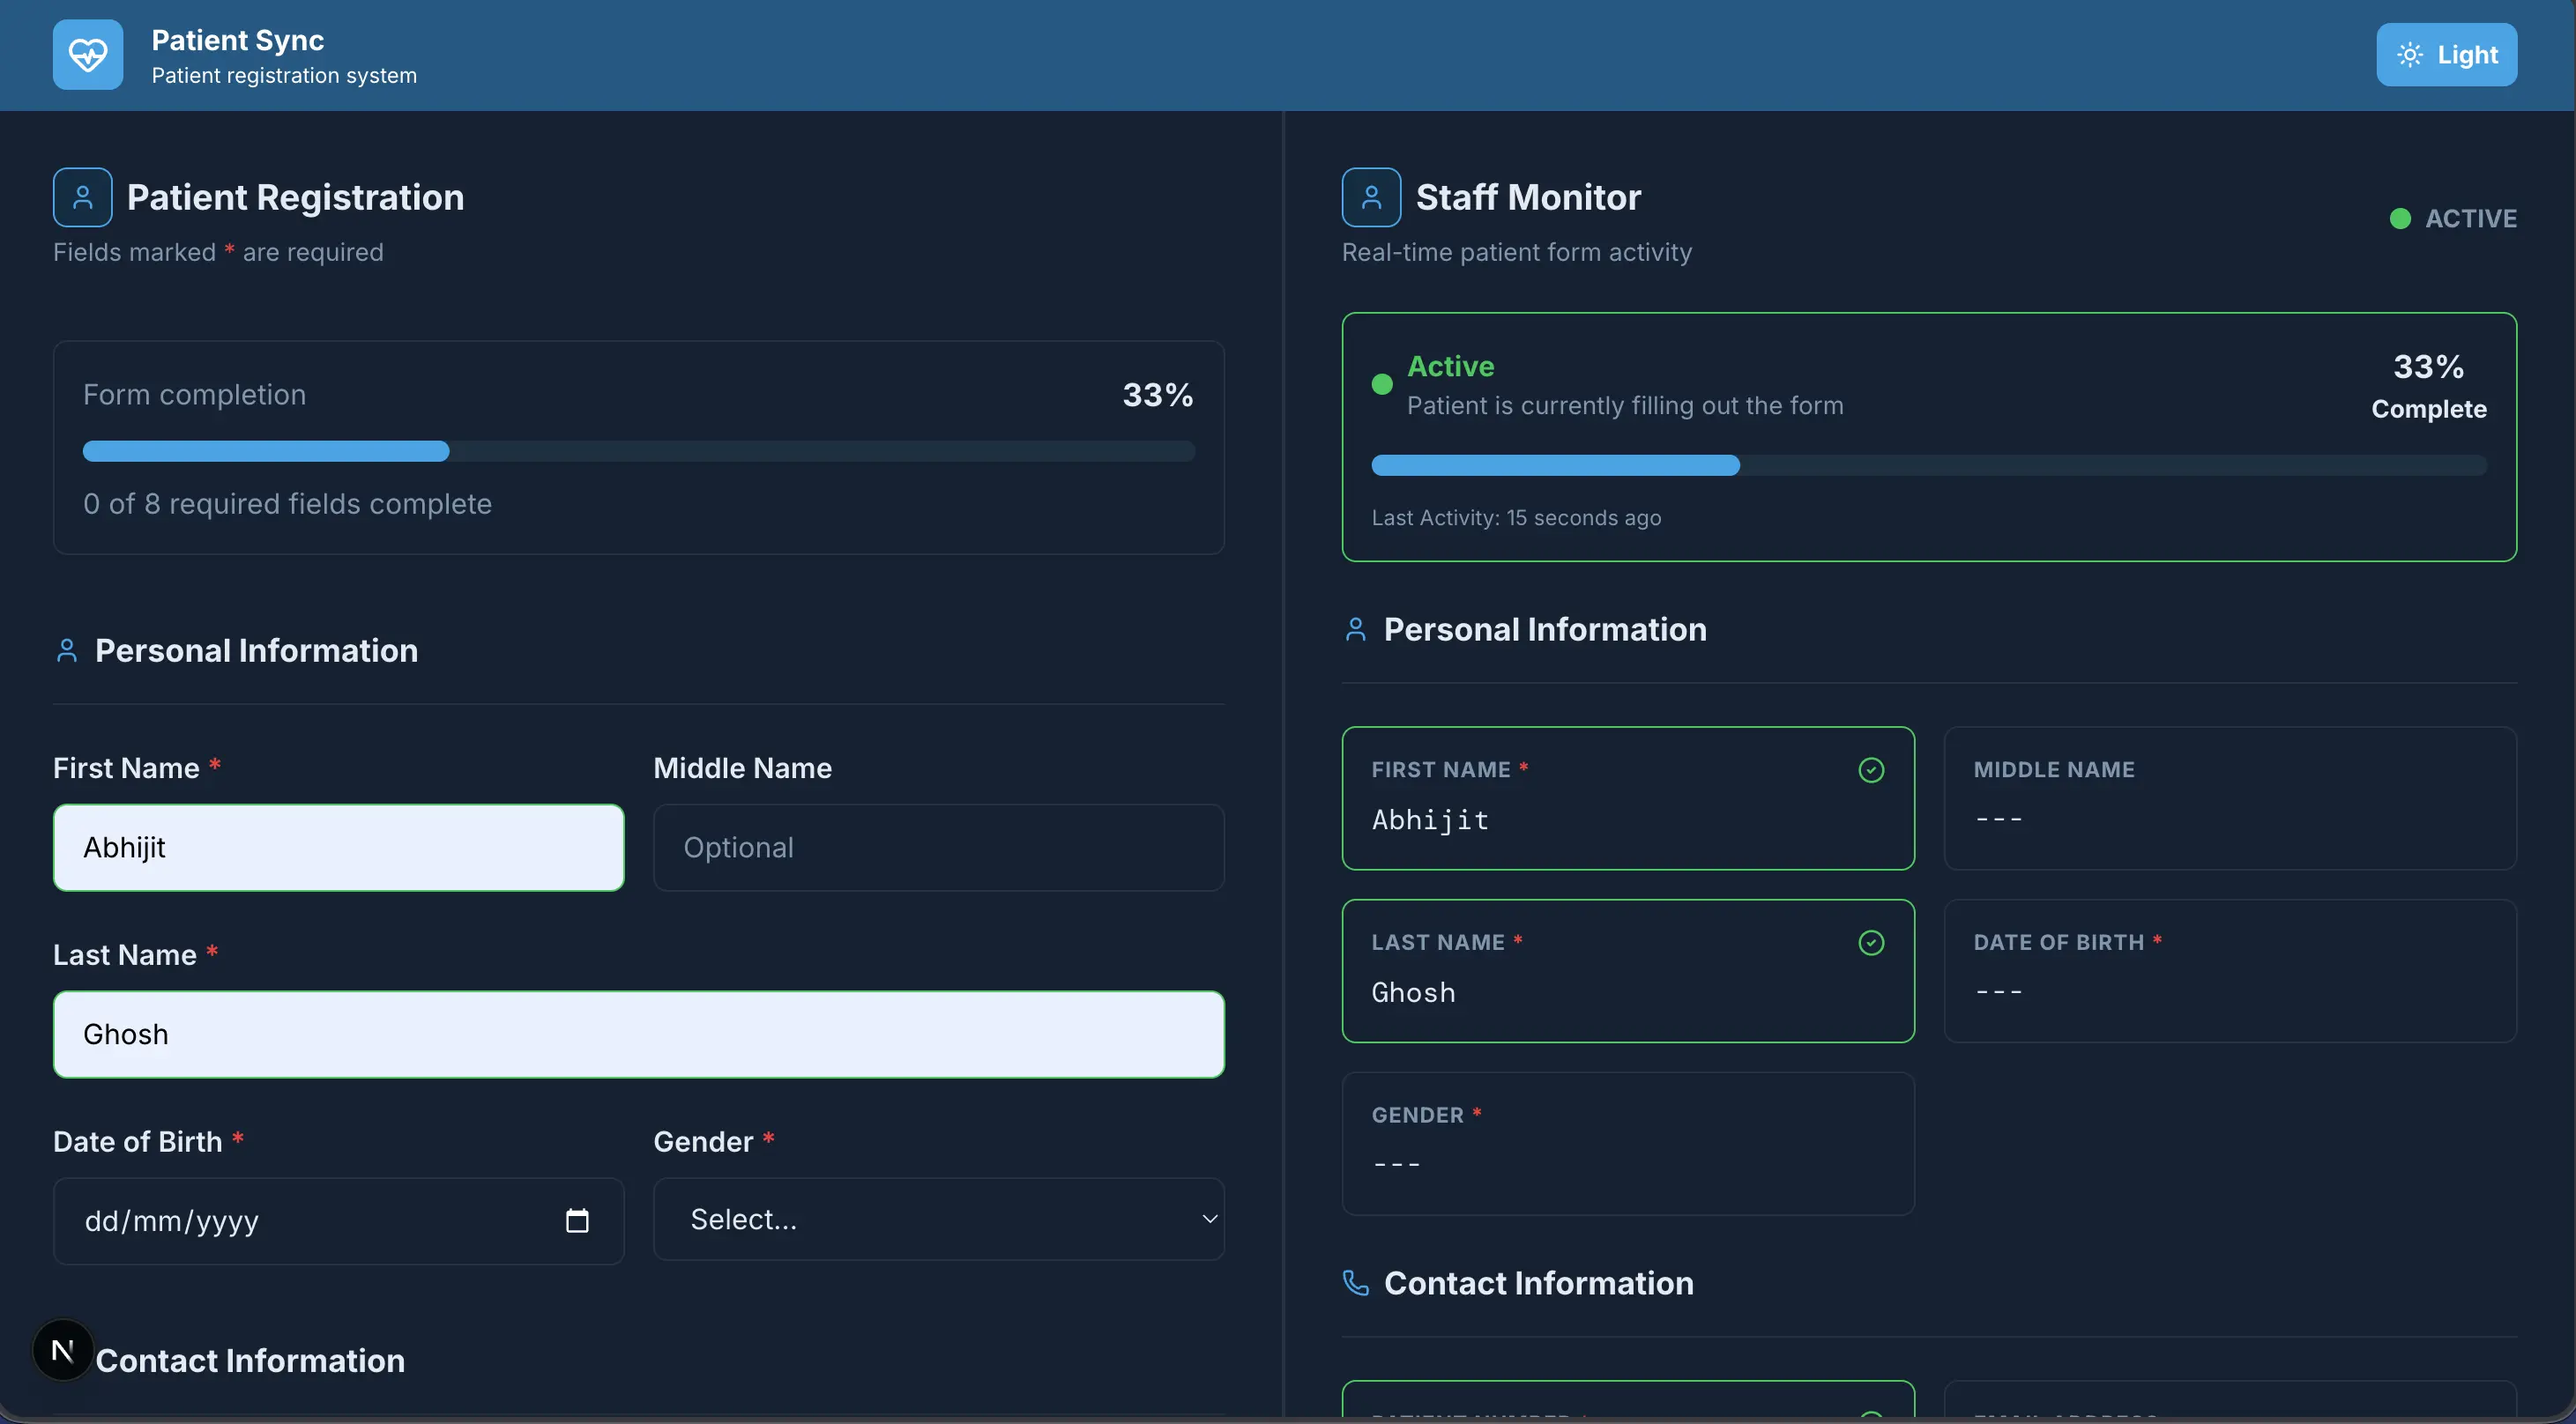
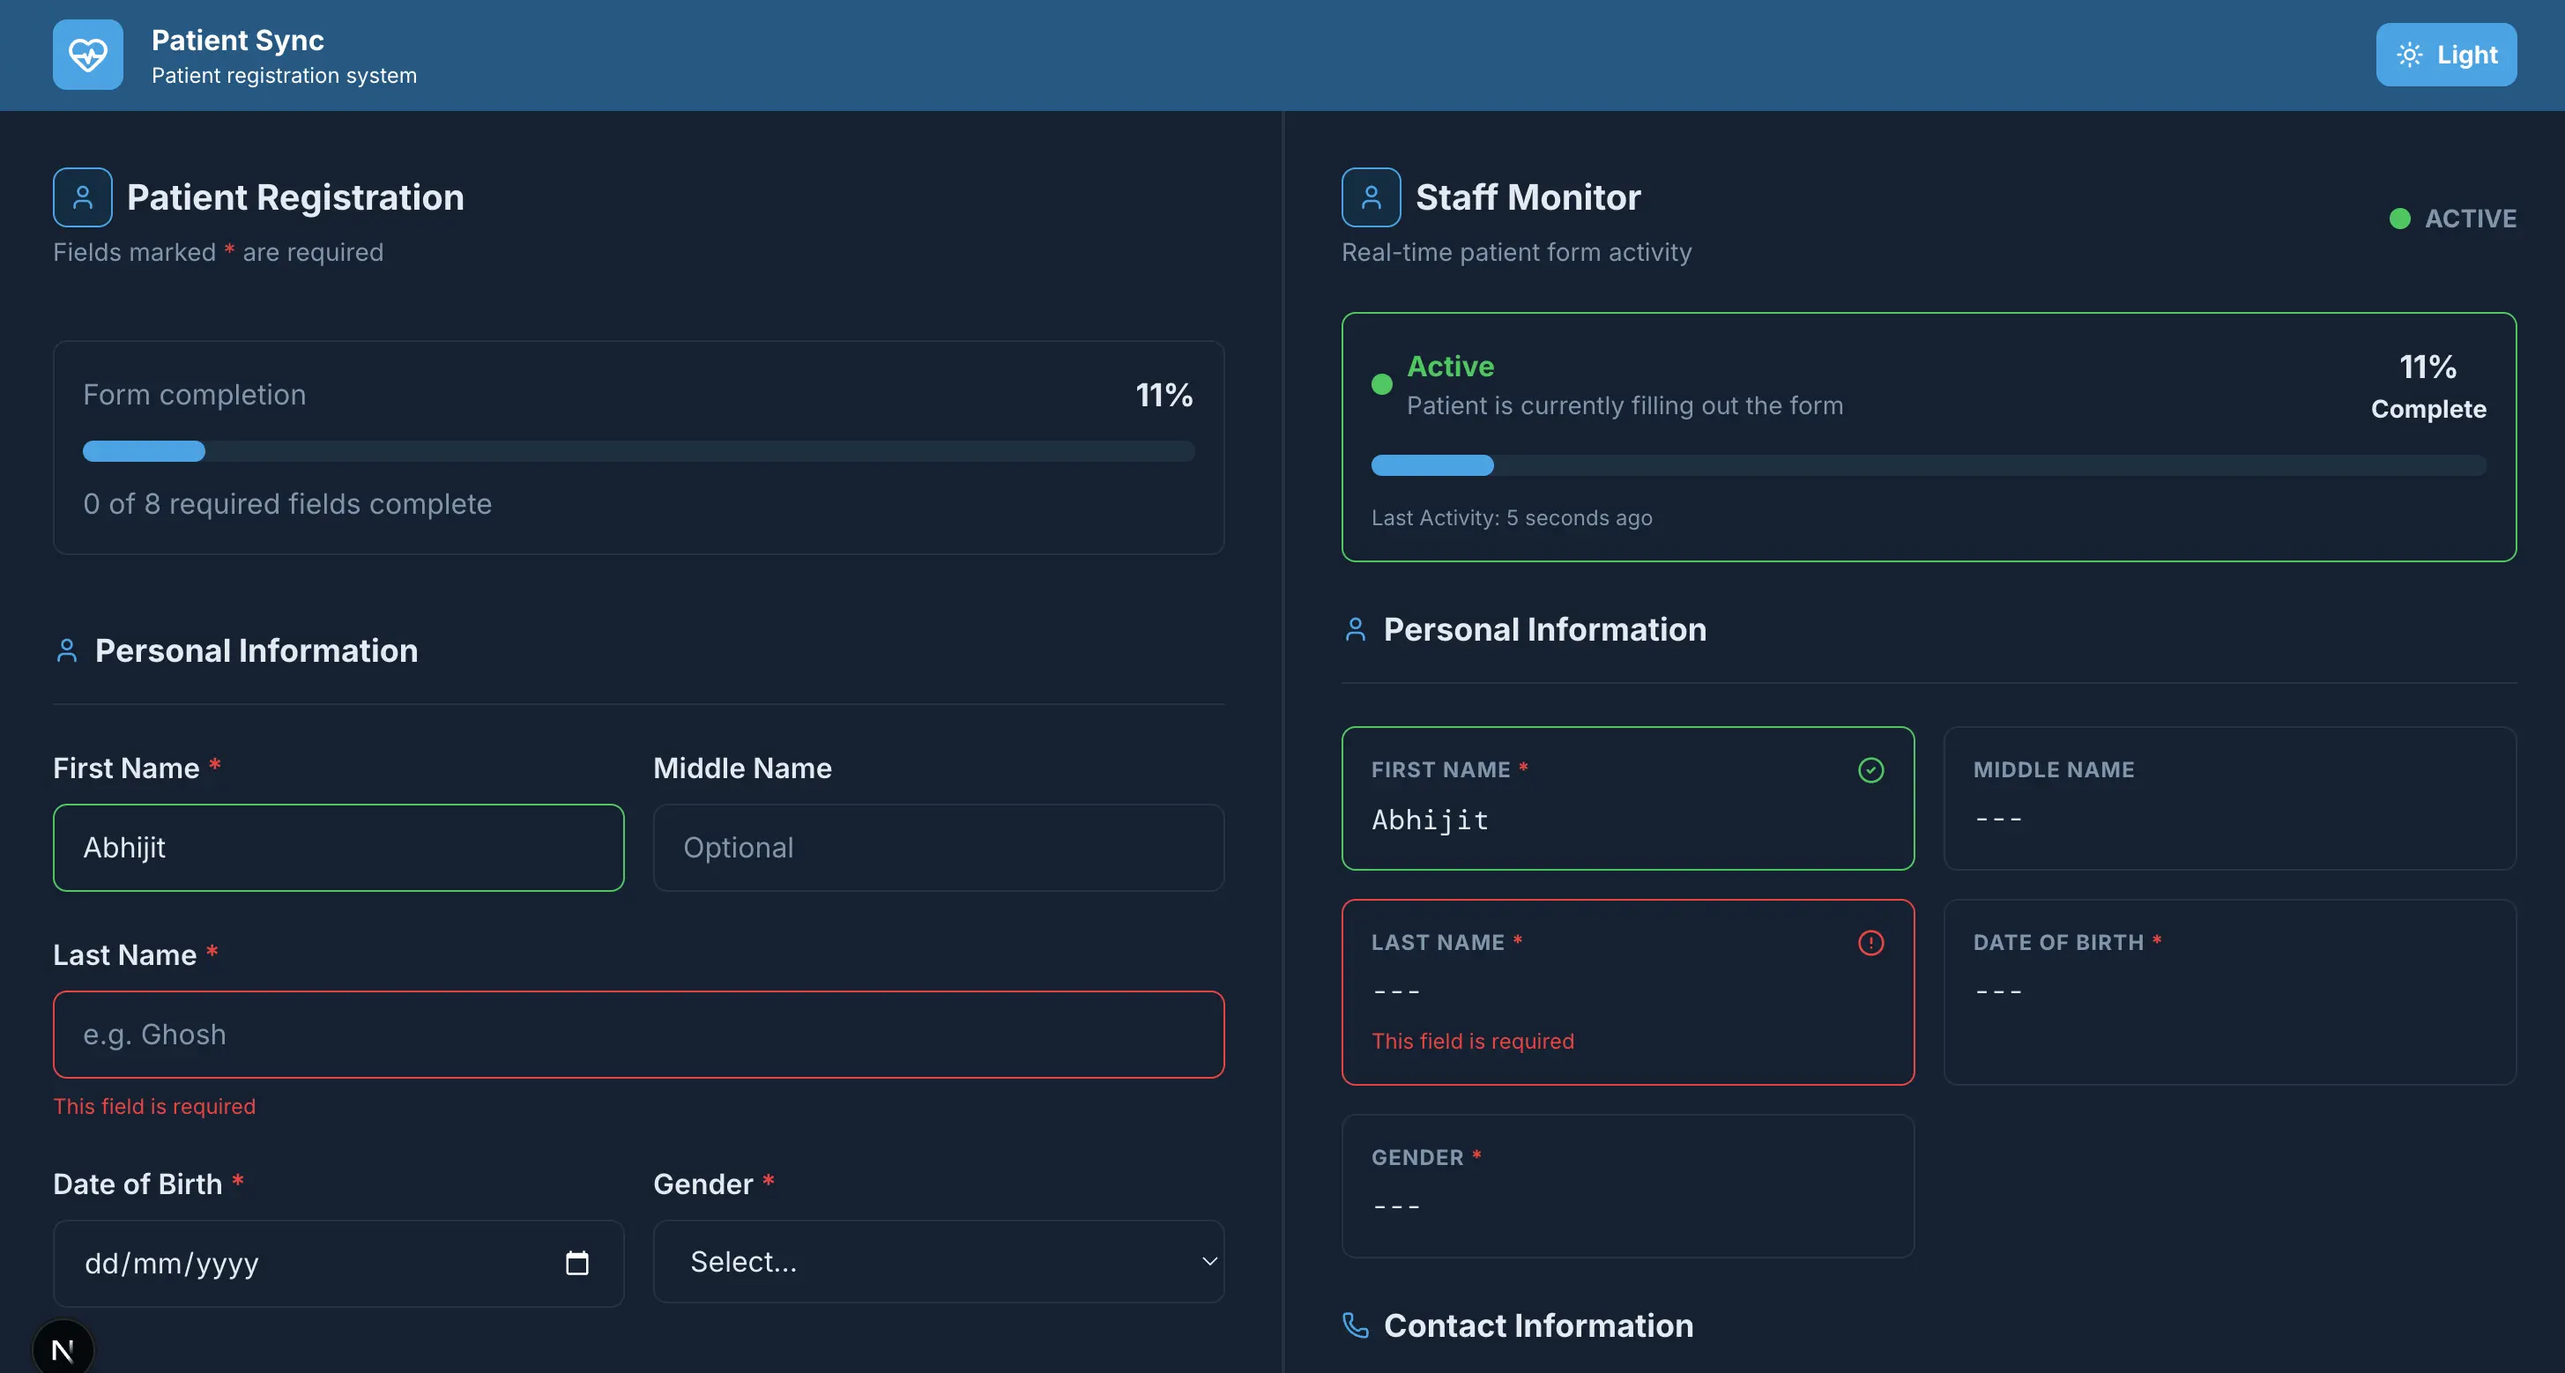
UI bug fixed & Assets change

diff --git a/components/PatientPanel.jsx b/components/PatientPanel.jsx
@@ -2,7 +2,7 @@ import { User,Phone, Heart, Globe } from "lucide-react";
 import SectionHeader from "@/components/SectionHeader";
 import SubmissionSuccess from "@/components/SubmissionSuccess";
 export default function PatientPanel({userOptions, patientPanelData, formInputHandler,
-  completionPct, formFocusHandler, formBlurHandler, errors, touched,handleSubmit,resetForm}) {
+  completionPct, formFocusHandler, formBlurHandler, errors, touched,handleSubmit,resetForm, isFormValid}) {
 
   //Today's Date
   const today = new Date().toISOString().split("T")[0];
@@ -366,8 +366,13 @@ export default function PatientPanel({userOptions, patientPanelData, formInputHa
         <div className=" pt-6">
           <button
             type="submit"
-            className="cursor-pointer w-full rounded-xl bg-primary py-4 text-lg font-bold text-primary-foreground
-            transition-all duration-200 hover:brightness-110 active:scale-[0.98]"
+            className={`w-full rounded-xl py-4 text-lg font-bold transition-all duration-200
+              ${
+                isFormValid
+                  ? "cursor-pointer bg-primary text-primary-foreground hover:brightness-110 active:scale-[0.98]"
+                  : "cursor-not-allowed bg-muted text-muted-foreground opacity-60"
+              }`}
+            disabled={!isFormValid}
           >
             Register Patient
           </button>

diff --git a/app/page.js b/app/page.js
@@ -216,7 +216,7 @@ export default function Home() {
         <PatientPanel userOptions={userOptions} patientPanelData={patientPanelData}
           formInputHandler={formInputHandler} completionPct={completionPct}
           formFocusHandler={formFocusHandler} formBlurHandler={formBlurHandler} errors={errors}
-          touched={touched} handleSubmit={handleSubmit} resetForm={resetForm}/>
+          touched={touched} handleSubmit={handleSubmit} resetForm={resetForm} isFormValid={isFormValid}/>
         <StaffPanel staffPanelData={staffPanelData}/>
       </MainContent>
     </main>

diff --git a/app/globals.css b/app/globals.css
@@ -2,6 +2,16 @@
 
 @custom-variant dark (&:where(.dark, .dark *));
 
+input:-webkit-autofill,
+input:-webkit-autofill:hover,
+input:-webkit-autofill:focus,
+select:-webkit-autofill,
+textarea:-webkit-autofill {
+  -webkit-text-fill-color: inherit;
+  -webkit-box-shadow: 0 0 0px 1000px var(--color-card) inset;
+  transition: background-color 9999s ease-in-out 0s;
+}
+
 @theme {
 
 /* Fonts */
